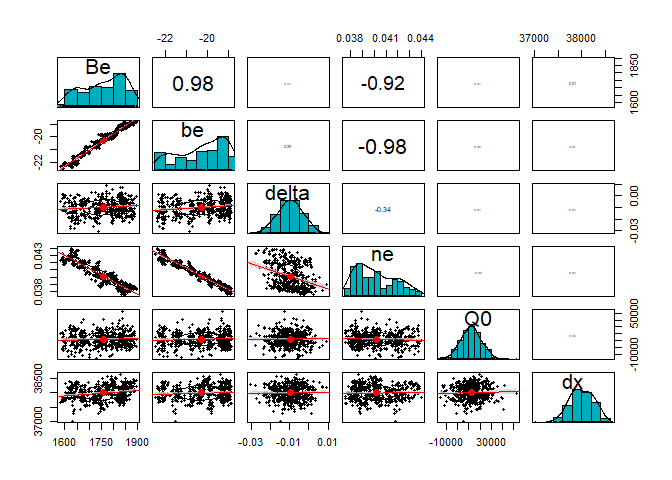
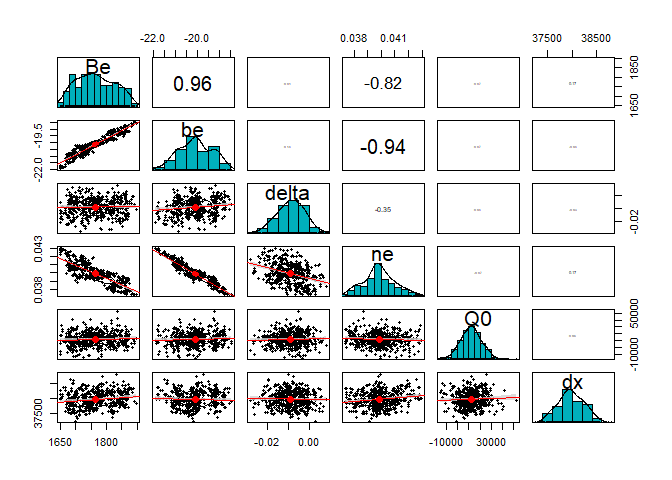
Update ReadMe

diff --git a/README.md b/README.md
@@ -74,7 +74,7 @@ the model, as shown below:
    # effective friction coefficient
    ne=c(0.023,
         'LogNormal',
-        log(0.023),1.5),
+        log(0.023),0.15),
    # Initial discharge 
    Q0=c(12500,
         'Gaussian',
@@ -167,7 +167,7 @@ Plot_prior_posterior(DF_prior_posterior=results_calibration$prior_vs_posterior)
 
 <img src="man/figures/README-unnamed-chunk-4-1.png" width="100%" />
 
-The MODEL PARAMETERS have been estimated so far. Let’s simulate the
+The model parameters have been estimated so far. Let’s simulate the
 discharge time series.
 
 ``` r
@@ -263,7 +263,7 @@ knowledge is specified here:
    # constant effective width of the rectangular channel
    Be=c(150, # initial guess
         'LogNormal', # distribution
-        log(150),0.15), # parameters of the distribution 
+        log(150),0.3), # parameters of the distribution 
    # River bed elevation relative to a reference system
    be=c(-5,
         'Gaussian',
@@ -424,8 +424,8 @@ input_stage_plot_LS=ggplot(Lower_Seine_Rouen,aes(x=date))+
   geom_line(aes(y=h1,col='Upstream'))+
   geom_line(aes(y=h2,col='Downstream'))+
   labs(x='Time',
-                y='Stage [m]',
-                col='Gauge station')+
+       y='Stage [m]',
+       col='Gauge station')+
   theme_bw()
 
 input_stage_plot_LS+
